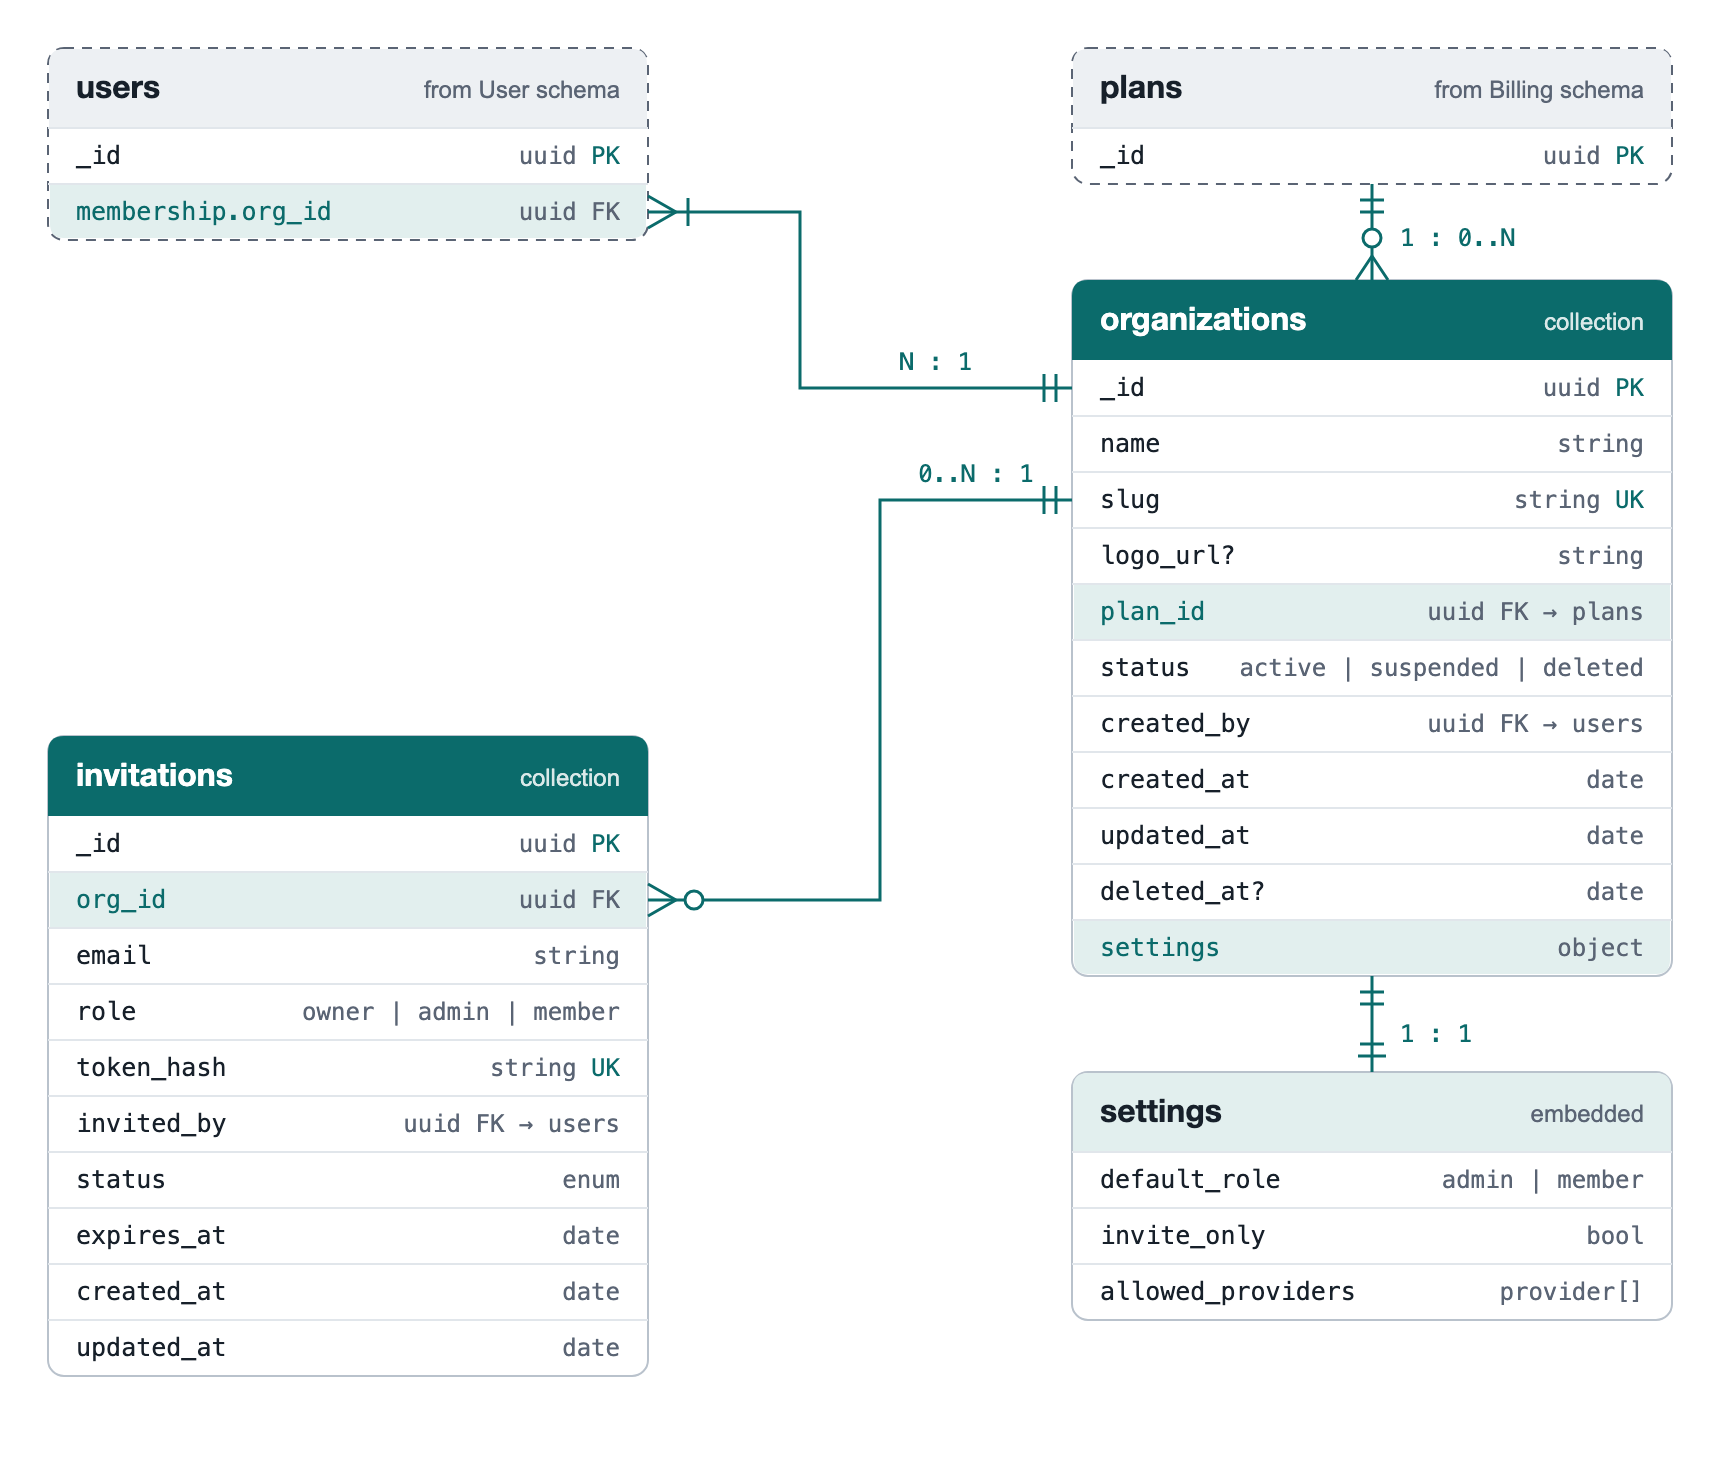
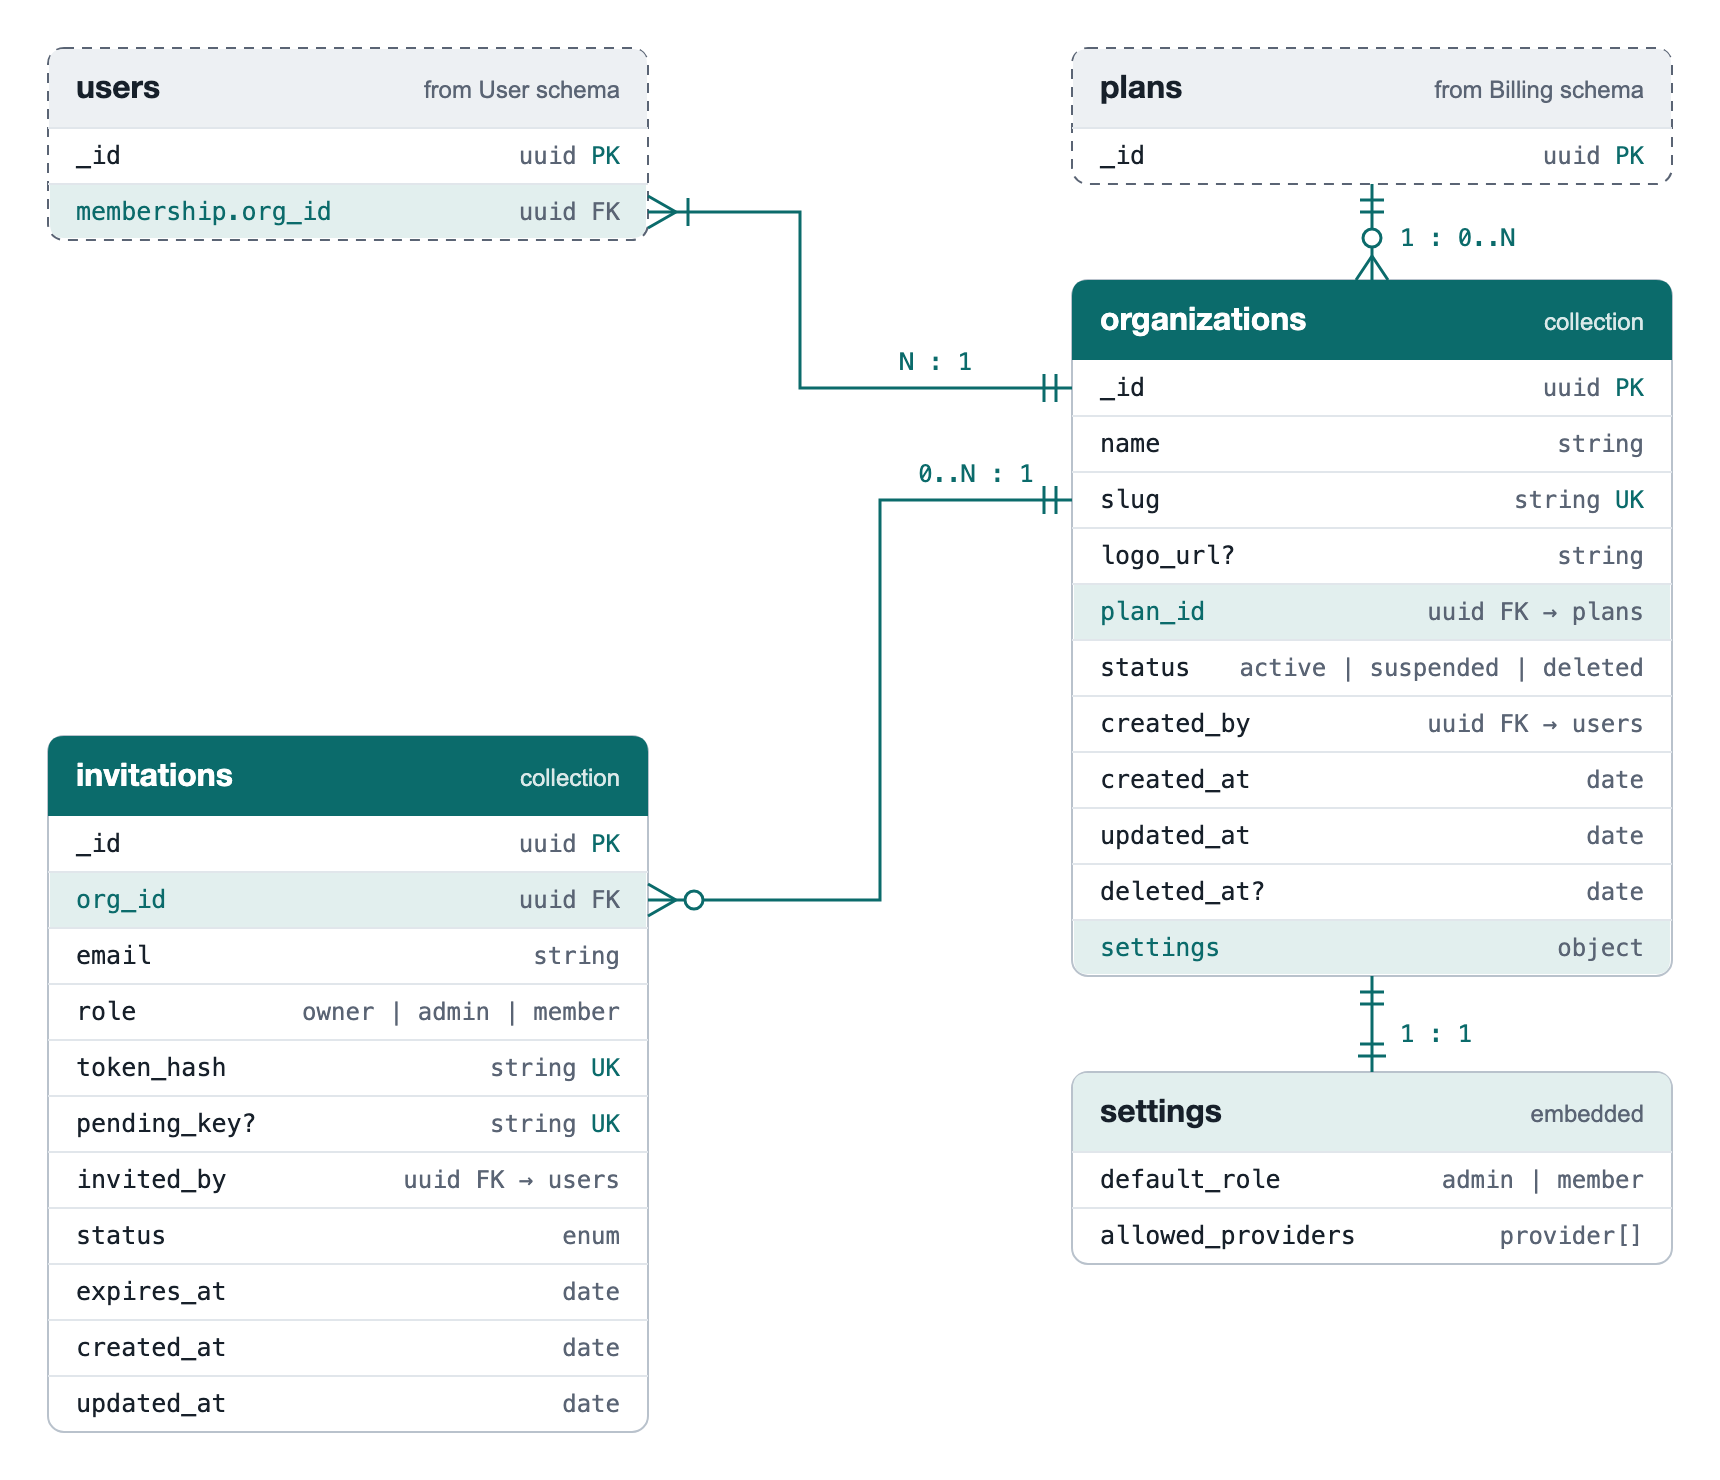
Finalize organization roles and invitation rules

diff --git a/Schema_liftofsol/organization-schema/organizations.types.ts b/Schema_liftofsol/organization-schema/organizations.types.ts
@@ -4,16 +4,26 @@
 // Keys: PK = primary key, FK = foreign key, UNIQUE = no two documents share the value.
 //
 // Rules enforced in code:
-// - An organization always has at least one owner. When the last owner leaves or deletes
-//   their account, the organization is closed.
+// - People join an organization only by invitation. There are no join codes or join requests.
+// - Every organization request first checks that the user and the organization are both active,
+//   then canOrg(users.membership.role, action).
+// - An organization always has at least one owner. The last owner can't be demoted or removed;
+//   when they leave or delete their account, the organization is closed.
 // - Closing: status "deleted" and deleted_at are set together. A closed organization is kept,
 //   never purged. A paid plan must be cancelled first.
 // - A member who leaves, is removed, or whose organization is closed gets a new organization
 //   of their own on the default plan. Their work stays with the old organization.
-// - Only owners can invite owners.
+// - Inviting, removing or changing the role of an owner needs "owners.manage" (owners only),
+//   so an admin can never change an owner.
 // - Only the platform team can suspend an organization. While suspended, its members are
 //   refused and its data is kept.
 // - A new organization starts with DEFAULT_ORG_SETTINGS.
+// - Slug: an organization created for a new user gets defaultSlug(name, _id). Owners can change
+//   it later if the new one is still unique. Renaming the organization doesn't change the slug.
+// - Accepting an invite: it must be pending and not past expires_at, and the signed-in email
+//   must match the invite's email and be verified.
+// - Inviting someone who already has a pending invite replaces it: the old one is revoked and
+//   the new one created in one transaction.
 
 import type { AuthProvider, OrgRole } from "../shared.types";
 
@@ -24,15 +34,37 @@ export const EXPIRED_INVITE_RETENTION_DAYS = 7;
 
 export type OrgStatus = "active" | "suspended" | "deleted";
 
+// What each organization role may do. Work inside a project (agents, inbox, knowledge) is
+// controlled by project roles (Project schema), checked after this.
+export type OrgAction =
+  | "org.edit"          // name, logo, settings
+  | "members.manage"    // invite and remove members and admins
+  | "owners.manage"     // invite, remove or change owners
+  | "billing.manage"    // plan and payments
+  | "org.close"
+  | "projects.view_all" // see every project in the organization
+  | "projects.create";
+
+export const ORG_ROLE_ACTIONS: Record<OrgRole, readonly OrgAction[]> = {
+  owner: [
+    "org.edit", "members.manage", "owners.manage", "billing.manage",
+    "org.close", "projects.view_all", "projects.create",
+  ],
+  admin: ["org.edit", "members.manage", "projects.view_all", "projects.create"],
+  member: ["projects.create"],
+};
+
+export function canOrg(role: OrgRole, action: OrgAction): boolean {
+  return ORG_ROLE_ACTIONS[role].includes(action);
+}
+
 export interface OrgSettings {
-  default_role: Exclude<OrgRole, "owner">; // role given to new members
-  invite_only: boolean;                    // true = people join only by invitation
+  default_role: Exclude<OrgRole, "owner">; // role pre-selected when inviting someone
   allowed_providers: AuthProvider[];       // sign-in methods members may use
 }
 
 export const DEFAULT_ORG_SETTINGS: OrgSettings = {
   default_role: "member",
-  invite_only: true,
   allowed_providers: ["google", "email", "github"],
 };
 
@@ -51,20 +83,37 @@ export interface Organization {
 }
 
 // ---------- invitations ----------
-// UNIQUE together: org_id + email, while status is "pending"
-// (one open invite per person per organization).
+// One open invite per person per organization: pending_key is UNIQUE and exists only while pending.
 
 export type InvitationStatus = "pending" | "accepted" | "revoked" | "expired";
 
 export interface Invitation {
   _id: string;          // PK. UUID v4
   org_id: string;       // FK → organizations._id
-  email: string;        // lowercase; must match the signed-in user's email on accept
+  email: string;        // lowercase; must match the signed-in user's verified email on accept
   role: OrgRole;        // copied into users.membership.role on accept
   token_hash: string;   // UNIQUE. SHA-256 hex of the invite token; the token itself is never stored
+  pending_key?: string; // UNIQUE. pendingKey(org_id, email) while status is "pending"; removed otherwise
   invited_by: string;   // FK → users._id
   status: InvitationStatus;
   expires_at: Date;     // INVITE_VALID_HOURS after created_at; deleted EXPIRED_INVITE_RETENTION_DAYS after this
   created_at: Date;
   updated_at: Date;
+}
+
+// ---------- Helpers ----------
+
+// Slug for an organization created automatically, e.g. "Asha's workspace" → "ashas-workspace-3b9e7c".
+export function defaultSlug(name: string, id: string): string {
+  const base = name
+    .toLowerCase()
+    .replace(/['’]/g, "")
+    .replace(/[^a-z0-9]+/g, "-")
+    .slice(0, 41)
+    .replace(/^-+|-+$/g, "");
+  return `${base || "org"}-${id.slice(0, 6)}`;
+}
+
+export function pendingKey(org_id: string, email: string): string {
+  return `${org_id}:${email.toLowerCase()}`;
 }

diff --git a/Schema_liftofsol/organization-schema/organizations.mongo.js b/Schema_liftofsol/organization-schema/organizations.mongo.js
@@ -2,10 +2,13 @@
 // plan_id points to plans in the Billing schema; that collection is set up there.
 // Run with mongosh:  mongosh "<connection string>/<db>" organizations.mongo.js
 // Safe to re-run. Extra fields are allowed, so the schema stays flexible.
+// Firestore with MongoDB compatibility doesn't run validators ($jsonSchema, collMod):
+// there, skip the validator part and let the API check the same rules. The indexes work on both.
+// If an earlier version of this file was run, drop invitations.pending_invite_unique first.
 
 const uuid = {
   bsonType: "string",
-  pattern: "^[0-9a-f]{8}-[0-9a-f]{4}-[0-9a-f]{4}-[0-9a-f]{4}-[0-9a-f]{12}$",
+  pattern: "^[0-9a-f]{8}-[0-9a-f]{4}-4[0-9a-f]{3}-[89ab][0-9a-f]{3}-[0-9a-f]{12}$", // v4
 };
 const timestamps = {
   created_at: { bsonType: "date" },
@@ -29,10 +32,9 @@ const organizationsValidator = {
       deleted_at: { bsonType: "date" },
       settings: {
         bsonType: "object",
-        required: ["default_role", "invite_only", "allowed_providers"],
+        required: ["default_role", "allowed_providers"],
         properties: {
           default_role: { enum: ["admin", "member"] },
-          invite_only: { bsonType: "bool" },
           allowed_providers: {
             bsonType: "array",
             minItems: 1,
@@ -61,10 +63,15 @@ const invitationsValidator = {
       email: { bsonType: "string", pattern: "^[^@\\sA-Z]+@[^@\\sA-Z]+$" },
       role,
       token_hash: { bsonType: "string", pattern: "^[0-9a-f]{64}$" },
+      pending_key: { bsonType: "string", minLength: 1 }, // "{org_id}:{email}" while pending
       invited_by: uuid,
       status: { enum: ["pending", "accepted", "revoked", "expired"] },
       expires_at: { bsonType: "date" },
       ...timestamps,
+    },
+    // pending_key exists only on a pending invite. "Pending needs pending_key" is checked in code.
+    dependencies: {
+      pending_key: { properties: { status: { enum: ["pending"] } } },
     },
   },
 };
@@ -87,10 +94,11 @@ db.organizations.createIndex({ slug: 1 }, { name: "slug_unique", unique: true })
 // organizations: find every org on a plan (e.g. before retiring it).
 db.organizations.createIndex({ plan_id: 1 }, { name: "plan_id" });
 
-// UNIQUE together: invitations.org_id + email, only while status is "pending".
+// UNIQUE: invitations.pending_key, so one open invite per person per org. Sparse, because the
+// field exists only while pending (Firestore with MongoDB compatibility has no partial indexes).
 db.invitations.createIndex(
-  { org_id: 1, email: 1 },
-  { name: "pending_invite_unique", unique: true, partialFilterExpression: { status: "pending" } },
+  { pending_key: 1 },
+  { name: "pending_key_unique", unique: true, sparse: true },
 );
 
 // UNIQUE: invitations.token_hash. Finds the invite when someone opens the link.

diff --git a/platform-api/tests/invitation-accept.test.ts b/platform-api/tests/invitation-accept.test.ts
@@ -1,0 +1,38 @@
+import Fastify from "fastify";
+import { describe, expect, it, vi } from "vitest";
+import { authRoutes } from "../src/modules/auth/routes.js";
+
+async function appFor(emailVerified: boolean) {
+  const runTransaction = vi.fn();
+  const app = Fastify();
+  app.decorate("config", { FIREBASE_CHECK_REVOKED_TOKENS: false } as never);
+  app.decorate("firebase", {
+    auth: {
+      verifyIdToken: vi.fn().mockResolvedValue({
+        uid: "firebase-user-1",
+        email: "ravi@acme.com",
+        email_verified: emailVerified,
+      }),
+    },
+  } as never);
+  app.decorate("store", {
+    db: { collection: () => ({ doc: () => ({}) }), runTransaction },
+  } as never);
+  await app.register(authRoutes);
+  return { app, runTransaction };
+}
+
+describe("accepting an invitation", () => {
+  it("refuses an unverified email before touching the invitation", async () => {
+    const { app, runTransaction } = await appFor(false);
+    const response = await app.inject({
+      method: "POST",
+      url: "/invitations/accept",
+      headers: { authorization: "Bearer firebase-id-token" },
+      payload: { token: "x".repeat(32) },
+    });
+    expect(response.statusCode).toBe(403);
+    expect(response.json()).toMatchObject({ code: "EMAIL_NOT_VERIFIED" });
+    expect(runTransaction).not.toHaveBeenCalled();
+  });
+});

diff --git a/platform-api/src/modules/auth/routes.ts b/platform-api/src/modules/auth/routes.ts
@@ -331,6 +331,13 @@ export async function authRoutes(app: FastifyInstance): Promise<void> {
     { preHandler: authenticate },
     async (request) => {
       const body = parse(z.object({ token: z.string().min(20) }), request.body);
+      // The invite is matched by email, so the person must have proved they own that address.
+      if (!request.auth!.user.email_verified)
+        throw new AppError(
+          "EMAIL_NOT_VERIFIED",
+          "Verify your email address before accepting an invitation.",
+          403,
+        );
       const invitationRef = app.store.db
         .collection("invitations")
         .doc(body.token);

diff --git a/Schema_liftofsol/organization-schema/README.md b/Schema_liftofsol/organization-schema/README.md
@@ -1,0 +1,97 @@
+# Organization schema
+
+Organizations (the customer account that holds the plan) and invitations (how people join one).
+MongoDB-style documents; works on Firestore with MongoDB compatibility.
+
+## Files
+
+| File | What it is |
+|---|---|
+| `organizations-erd.svg`, `organizations-erd.png` | Diagram with relationships and cardinality |
+| `organizations.types.ts` | Types, role actions (`ORG_ROLE_ACTIONS`, `canOrg()`), the rules the API enforces, `defaultSlug()`, `pendingKey()` |
+| `organizations.mongo.js` | MongoDB validators and indexes (run once with mongosh) |
+| `organizations.example.json` | One organization and one pending invitation |
+| `../shared.types.ts` | `OrgRole`, `AuthProvider` and the Firebase sign-in name map, shared with the User schema |
+
+## Collections
+
+| Collection | One document per | Holds |
+|---|---|---|
+| `organizations` | Company, or an individual's own workspace | Name, slug, logo, plan, status, settings |
+| `invitations` | Invite sent to one email | Role, hashed token, `pending_key`, status, expiry |
+
+Which organization a user is in, and their role, is stored on the user (`users.membership`, User schema).
+
+## Relationships
+
+```
+organizations  1 ── 1..N  users           (users.membership.org_id, User schema)
+organizations  1 ── 0..N  invitations
+organizations  1 ── 1     settings        (embedded)
+plans          1 ── 0..N  organizations   (Billing schema)
+```
+
+## Decisions
+
+Settled; change them only on purpose.
+
+1. Every user belongs to exactly one organization. A new user who doesn't come through an invite gets their own
+   (e.g. "Asha's workspace") on the default plan, with them as owner.
+2. People join only by invitation. There are no join codes or join requests.
+3. An invite is valid for 24 hours. Expired invites are deleted automatically 7 days after they expire.
+4. One open invite per person per organization. Inviting the same person again replaces the open invite.
+5. Accepting needs a pending invite that hasn't expired, and the signed-in email must match the invite and be verified.
+6. An organization always has at least one owner. The last owner can't be demoted or removed;
+   when they leave or delete their account, the organization is closed.
+7. A closed organization (status `deleted` plus `deleted_at`) is kept, never purged. A paid plan is cancelled first.
+8. A member who leaves, is removed, or whose organization is closed gets a new organization of their own on the
+   default plan. Their work stays with the old organization.
+9. Only the platform team can suspend an organization. While suspended, its members are refused and its data is kept.
+10. A new organization starts with `DEFAULT_ORG_SETTINGS`: invites pre-select the `member` role, and all three
+    sign-in methods are allowed.
+11. Slug: an organization created for a new user gets `defaultSlug(name, _id)`, e.g. `ashas-workspace-3b9e7c`.
+    Owners can change it if the new one is still unique. Renaming the organization doesn't change the slug.
+12. Ids are UUID v4.
+
+## Roles
+
+| Action | owner | admin | member |
+|---|---|---|---|
+| `org.edit`: name, logo, settings | yes | yes | no |
+| `members.manage`: invite and remove members and admins | yes | yes | no |
+| `owners.manage`: invite, remove or change owners | yes | no | no |
+| `billing.manage`: plan and payments | yes | no | no |
+| `org.close` | yes | no | no |
+| `projects.view_all`: see every project | yes | yes | no |
+| `projects.create` | yes | yes | yes |
+
+- Changing what a role can do is one line in `ORG_ROLE_ACTIONS`.
+- Anything that touches an owner needs `owners.manage`, so an admin can never change an owner.
+- Work inside a project (agents, inbox, knowledge) is controlled by project roles (Project schema),
+  checked after the organization check.
+
+## Request check
+
+1. Resolve the user (see the sign-in steps in the User schema README).
+2. Read the organization from `users.membership.org_id`. Refuse if the user or the organization isn't `active`.
+3. Check `canOrg(users.membership.role, action)`.
+
+Every user has exactly one organization, so routes don't need an organization id in the URL.
+
+## Indexes
+
+| Collection | Index | Use |
+|---|---|---|
+| `organizations` | `slug` (unique) | One organization per slug |
+| `organizations` | `plan_id` | Every organization on a plan |
+| `invitations` | `pending_key` (unique, sparse) | One open invite per person per organization |
+| `invitations` | `token_hash` (unique) | Find the invite when someone opens the link |
+| `invitations` | `expires_at` (TTL, 7 days) | Delete expired invites |
+| `users` | `membership.org_id` | An organization's members (created in `users.mongo.js`) |
+
+## On Firestore with MongoDB compatibility
+
+- Validators (`$jsonSchema`, `collMod`) don't run there; the API checks the same rules (listed in `organizations.types.ts`).
+- One open invite per person uses `pending_key` with a sparse index, because partial indexes aren't supported.
+- The TTL index works there, but deletion isn't instant: an expired invite is usually removed within 24 hours
+  after its 7 days are up. Acceptance checks `expires_at` itself, so this never lets an old invite through.
